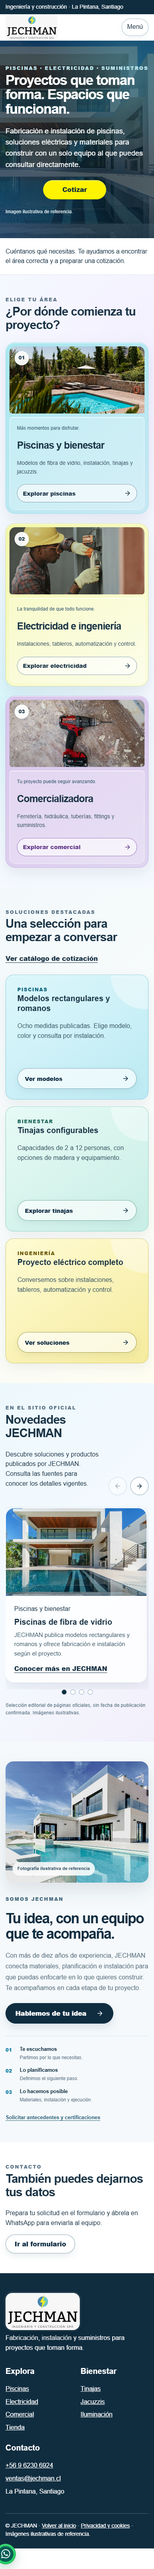
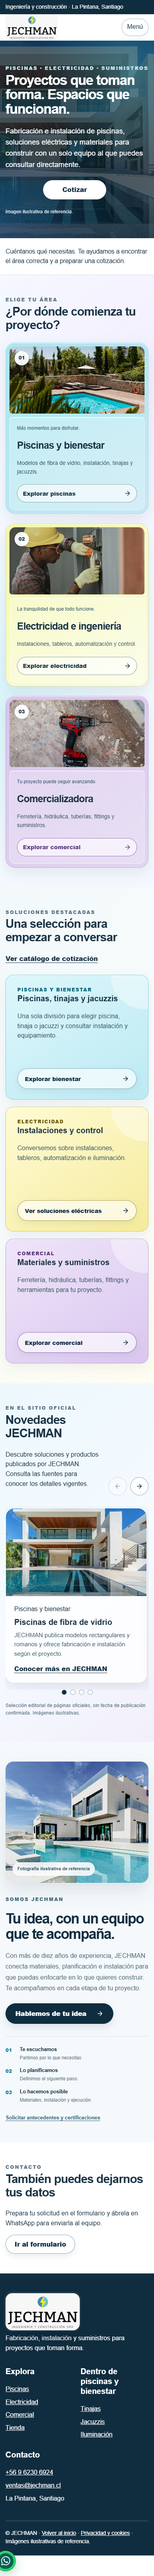
fix: restore Jechman division colors and group wellness with pools

diff --git a/glassindex.html b/glassindex.html
@@ -198,6 +198,25 @@ html{scroll-padding-top:84px}body{overflow-x:clip}.site-header{background:#fffff
 @media(max-width:800px){.site-header .brand-logo{width:152px}}
 @media(max-width:680px){.site-header .brand-logo{width:132px}.footer .brand-logo{width:188px}}
 @media(prefers-reduced-motion:reduce){.footer .brand:hover .brand-logo{transform:none}}
+
+/* One consistent color per division. */
+.view[data-view="home"] .hero .btn,.nav .nav-quote{background:#fff;color:#102d40;border-color:#d3e3e9}
+.nav .nav-quote:hover{background:#eaf5f8}
+#destacados .feature-grid .feature-commercial{background:linear-gradient(145deg,#efe5f9,#dac6ef);border-color:#bda0d9}
+#destacados .feature-commercial .tag{color:#573078}
+#destacados .feature-commercial .feature-pill{border-color:#8d68ae!important}
+.view[data-view="piscinas"] .page-hero,.view[data-view="color"] .page-hero,.view[data-view="tinajas"] .page-hero,.view[data-view="jacuzzis"] .page-hero{background:linear-gradient(135deg,#e8faff,#f5fbfd)}
+.view[data-view="electricidad"] .page-hero{background:linear-gradient(135deg,#fff7cc,#fffdf0)}
+.view[data-view="comercial"] .page-hero,.view[data-view="tienda"] .page-hero{background:linear-gradient(135deg,#f2eafa,#fcf8ff)}
+.view[data-view="piscinas"] .btn:not(.outline),.view[data-view="color"] .btn:not(.outline),.view[data-view="tinajas"] .btn:not(.outline),.view[data-view="jacuzzis"] .btn:not(.outline){background:#b9eef4;color:#09283f;border-color:#76c8d7}
+.view[data-view="electricidad"] .btn:not(.outline){background:#f4d54a;color:#302500;border-color:#bca225}
+.view[data-view="comercial"] .btn:not(.outline),.view[data-view="tienda"] .btn:not(.outline){background:#7958a6;color:#fff;border-color:#7958a6}
+.view[data-view="electricidad"] .tag,.view[data-view="electricidad"] .eyebrow{color:#765c00}
+.view[data-view="comercial"] .tag,.view[data-view="comercial"] .eyebrow,.view[data-view="tienda"] .eyebrow{color:#673b8a}
+.view[data-view="piscinas"] .tag,.view[data-view="tinajas"] .tag,.view[data-view="jacuzzis"] .tag{color:#075f78}
+.nav a[data-route="electricidad"][aria-current="page"]{background:#fff3b7;color:#624c00}
+.nav a[data-route="comercial"][aria-current="page"],.nav a[data-route="tienda"][aria-current="page"]{background:#eee3fa;color:#573078}
+.nav a[data-route="piscinas"][aria-current="page"]{background:#d8f4fa;color:#075f78}
 </style>
 </head>
 <body>
@@ -209,7 +228,7 @@ html{scroll-padding-top:84px}body{overflow-x:clip}.site-header{background:#fffff
     <section class="hero"><img src="assets/hero.webp" alt="Piscina y exterior contemporáneo, imagen ilustrativa"><div class="wrap"><div class="hero-copy"><span class="eyebrow" style="color:#bce7ef">PISCINAS · ELECTRICIDAD · SUMINISTROS</span><h1>Proyectos que toman forma. Espacios que funcionan.</h1><p>Fabricación e instalación de piscinas, soluciones eléctricas y materiales para construir con un solo equipo al que puedes consultar directamente.</p><div class="hero-action"><a class="btn" data-wa="Hola JECHMAN, quisiera cotizar un proyecto y conversar sobre las opciones." href="#">Cotizar</a></div><div class="photo-note">Imagen ilustrativa de referencia.</div></div></div></section>
     <div class="intro-line"><div class="wrap">Cuéntanos qué necesitas. Te ayudamos a encontrar el área correcta y a preparar una cotización.</div></div>
     <section class="section area-section" id="areas"><div class="wrap"><div class="section-head"><div><span class="eyebrow">ELIGE TU ÁREA</span><h2>¿Por dónde comienza tu proyecto?</h2></div></div><div class="area-grid"><a class="area-card pool" href="#/piscinas"><div class="area-photo"><img src="assets/area-piscinas.webp" alt="Piscina residencial, imagen ilustrativa"><span class="area-number" aria-hidden="true">01</span></div><div class="body"><span class="area-kicker">Más momentos para disfrutar.</span><h3>Piscinas y bienestar</h3><p>Modelos de fibra de vidrio, instalación, tinajas y jacuzzis.</p><span class="link">Explorar piscinas <span class="icon-arrow"><svg viewBox="0 0 24 24" width="18" height="18" fill="none" stroke="currentColor" stroke-width="2" stroke-linecap="round" stroke-linejoin="round" aria-hidden="true" focusable="false"><path d="M5 12h14m-7-7 7 7-7 7"/></svg></span></span></div></a><a class="area-card electric" href="#/electricidad"><div class="area-photo"><img src="assets/area-electricidad.webp" alt="Trabajo eléctrico, imagen ilustrativa"><span class="area-number" aria-hidden="true">02</span></div><div class="body"><span class="area-kicker">La tranquilidad de que todo funcione.</span><h3>Electricidad e ingeniería</h3><p>Instalaciones, tableros, automatización y control.</p><span class="link">Explorar electricidad <span class="icon-arrow"><svg viewBox="0 0 24 24" width="18" height="18" fill="none" stroke="currentColor" stroke-width="2" stroke-linecap="round" stroke-linejoin="round" aria-hidden="true" focusable="false"><path d="M5 12h14m-7-7 7 7-7 7"/></svg></span></span></div></a><a class="area-card commercial" href="#/comercial"><div class="area-photo"><img src="assets/area-comercial.webp" alt="Herramientas y materiales, imagen ilustrativa"><span class="area-number" aria-hidden="true">03</span></div><div class="body"><span class="area-kicker">Tu proyecto puede seguir avanzando.</span><h3>Comercializadora</h3><p>Ferretería, hidráulica, tuberías, fittings y suministros.</p><span class="link">Explorar comercial <span class="icon-arrow"><svg viewBox="0 0 24 24" width="18" height="18" fill="none" stroke="currentColor" stroke-width="2" stroke-linecap="round" stroke-linejoin="round" aria-hidden="true" focusable="false"><path d="M5 12h14m-7-7 7 7-7 7"/></svg></span></span></div></a></div></div></section>
-    <section class="section band" id="destacados"><div class="wrap"><div class="section-head"><div><span class="eyebrow">SOLUCIONES DESTACADAS</span><h2>Una selección para empezar a conversar</h2></div><a class="text-link" href="#/tienda">Ver catálogo de cotización</a></div><div class="feature-grid"><article class="card feature-pool"><span class="tag">PISCINAS</span><h3>Modelos rectangulares y romanos</h3><p>Ocho medidas publicadas. Elige modelo, color y consulta por instalación.</p><div class="actions"><a class="btn small feature-pill" href="#/piscinas">Ver modelos <span class="icon-arrow"><svg viewBox="0 0 24 24" width="18" height="18" fill="none" stroke="currentColor" stroke-width="2" stroke-linecap="round" stroke-linejoin="round" aria-hidden="true" focusable="false"><path d="M5 12h14m-7-7 7 7-7 7"/></svg></span></a></div></article><article class="card feature-wellness"><span class="tag">BIENESTAR</span><h3>Tinajas configurables</h3><p>Capacidades de 2 a 12 personas, con opciones de madera y equipamiento.</p><div class="actions"><a class="btn small feature-pill" href="#/tinajas">Explorar tinajas <span class="icon-arrow"><svg viewBox="0 0 24 24" width="18" height="18" fill="none" stroke="currentColor" stroke-width="2" stroke-linecap="round" stroke-linejoin="round" aria-hidden="true" focusable="false"><path d="M5 12h14m-7-7 7 7-7 7"/></svg></span></a></div></article><article class="card feature-electric"><span class="tag">INGENIERÍA</span><h3>Proyecto eléctrico completo</h3><p>Conversemos sobre instalaciones, tableros, automatización y control.</p><div class="actions"><a class="btn small feature-pill" href="#/electricidad">Ver soluciones <span class="icon-arrow"><svg viewBox="0 0 24 24" width="18" height="18" fill="none" stroke="currentColor" stroke-width="2" stroke-linecap="round" stroke-linejoin="round" aria-hidden="true" focusable="false"><path d="M5 12h14m-7-7 7 7-7 7"/></svg></span></a></div></article></div></div></section>
+    <section class="section band" id="destacados"><div class="wrap"><div class="section-head"><div><span class="eyebrow">SOLUCIONES DESTACADAS</span><h2>Una selección para empezar a conversar</h2></div><a class="text-link" href="#/tienda">Ver catálogo de cotización</a></div><div class="feature-grid"><article class="card feature-pool"><span class="tag">PISCINAS Y BIENESTAR</span><h3>Piscinas, tinajas y jacuzzis</h3><p>Una sola división para elegir piscina, tinaja o jacuzzi y consultar instalación y equipamiento.</p><div class="actions"><a class="btn small feature-pill" href="#/piscinas">Explorar bienestar <span class="icon-arrow"><svg viewBox="0 0 24 24" width="18" height="18" fill="none" stroke="currentColor" stroke-width="2" stroke-linecap="round" stroke-linejoin="round" aria-hidden="true" focusable="false"><path d="M5 12h14m-7-7 7 7-7 7"/></svg></span></a></div></article><article class="card feature-electric"><span class="tag">ELECTRICIDAD</span><h3>Instalaciones y control</h3><p>Conversemos sobre instalaciones, tableros, automatización e iluminación.</p><div class="actions"><a class="btn small feature-pill" href="#/electricidad">Ver soluciones eléctricas <span class="icon-arrow"><svg viewBox="0 0 24 24" width="18" height="18" fill="none" stroke="currentColor" stroke-width="2" stroke-linecap="round" stroke-linejoin="round" aria-hidden="true" focusable="false"><path d="M5 12h14m-7-7 7 7-7 7"/></svg></span></a></div></article><article class="card feature-commercial"><span class="tag">COMERCIAL</span><h3>Materiales y suministros</h3><p>Ferretería, hidráulica, tuberías, fittings y herramientas para tu proyecto.</p><div class="actions"><a class="btn small feature-pill" href="#/comercial">Explorar comercial <span class="icon-arrow"><svg viewBox="0 0 24 24" width="18" height="18" fill="none" stroke="currentColor" stroke-width="2" stroke-linecap="round" stroke-linejoin="round" aria-hidden="true" focusable="false"><path d="M5 12h14m-7-7 7 7-7 7"/></svg></span></a></div></article></div></div></section>
     <section class="section news-section" id="novedades" aria-labelledby="news-title"><div class="wrap"><div class="section-head"><div><span class="eyebrow">EN EL SITIO OFICIAL</span><h2 id="news-title">Novedades JECHMAN</h2><p>Descubre soluciones y productos publicados por JECHMAN. Consulta las fuentes para conocer los detalles vigentes.</p></div><div class="news-controls"><button type="button" id="news-prev" aria-label="Novedad anterior"><svg viewBox="0 0 24 24" width="18" height="18" fill="none" stroke="currentColor" stroke-width="2" stroke-linecap="round" stroke-linejoin="round" aria-hidden="true" focusable="false"><path d="M5 12h14m-7-7 7 7-7 7"/></svg></button><button type="button" id="news-next" aria-label="Novedad siguiente"><svg viewBox="0 0 24 24" width="18" height="18" fill="none" stroke="currentColor" stroke-width="2" stroke-linecap="round" stroke-linejoin="round" aria-hidden="true" focusable="false"><path d="M5 12h14m-7-7 7 7-7 7"/></svg></button></div></div><div class="news-track" id="news-track" tabindex="0" aria-label="Novedades JECHMAN"></div><div class="news-dots" id="news-dots" aria-label="Seleccionar novedad"></div><p class="news-note">Selección editorial de páginas oficiales, sin fecha de publicación confirmada. Imágenes ilustrativas.</p></div></section>
     <section class="section about-section" id="historia"><div class="wrap about-grid"><figure class="about-visual"><img src="assets/about-jechman.jpg" alt="Casa contemporánea junto a una piscina, imagen ilustrativa de referencia" loading="lazy" decoding="async"><figcaption>Fotografía ilustrativa de referencia</figcaption></figure><div class="about-content"><span class="eyebrow">SOMOS JECHMAN</span><h2>Tu idea, con un equipo que te acompaña.</h2><p class="about-copy">Con más de diez años de experiencia, JECHMAN conecta materiales, planificación e instalación para que puedas enfocarte en lo que quieres construir. Te acompañamos en cada etapa de tu proyecto.</p><a class="btn about-cta" data-wa="Hola JECHMAN, quisiera conversar sobre mi idea y recibir orientación para mi proyecto." href="#">Hablemos de tu idea <span class="icon-arrow"><svg viewBox="0 0 24 24" width="18" height="18" fill="none" stroke="currentColor" stroke-width="2" stroke-linecap="round" stroke-linejoin="round" aria-hidden="true" focusable="false"><path d="M5 12h14m-7-7 7 7-7 7"/></svg></span></a><ol class="about-steps"><li><span>01</span><strong>Te escuchamos</strong><p>Partimos por lo que necesitas.</p></li><li><span>02</span><strong>Lo planificamos</strong><p>Definimos el siguiente paso.</p></li><li><span>03</span><strong>Lo hacemos posible</strong><p>Materiales, instalación y ejecución.</p></li></ol><a class="about-cert" data-wa="Hola JECHMAN, quisiera solicitar antecedentes técnicos o certificaciones para mi proyecto." href="#">Solicitar antecedentes y certificaciones</a></div></div></section>
     <section class="section compact"><div class="wrap"><span class="eyebrow">CONTACTO</span><h2>También puedes dejarnos tus datos</h2><p>Prepara tu solicitud en el formulario y ábrela en WhatsApp para enviarla al equipo.</p><a class="btn outline" href="#/contacto">Ir al formulario</a></div></section>
@@ -231,7 +250,7 @@ html{scroll-padding-top:84px}body{overflow-x:clip}.site-header{background:#fffff
   <div class="view" data-view="contacto" hidden><section class="page-hero"><div class="wrap"><div class="breadcrumbs"><a href="#/">Inicio</a> / Contacto</div><span class="eyebrow">CONTACTO</span><h1>Cuéntanos qué necesitas.</h1><p class="lead">Habla directamente por WhatsApp o completa el formulario para preparar tu solicitud.</p></div></section><section class="section"><div class="wrap contact-layout"><div><h2>Hablemos</h2><p><a class="text-link" data-wa="Hola JECHMAN, quisiera hablar con el equipo." href="#">WhatsApp: +56 9 6230 6924</a></p><p><a href="mailto:ventas@jechman.cl">ventas@jechman.cl</a></p><p>Lunes a viernes<br>08:30 a 17:30</p><p>Colo Colo 14405, La Pintana, Santiago.</p></div><form id="contact-form"><div class="form-grid"><label>Nombre *<input name="nombre" required autocomplete="name"></label><label>Teléfono *<input name="telefono" required autocomplete="tel" inputmode="tel"></label><label>Correo *<input name="correo" type="email" required autocomplete="email"></label><label>Área *<select name="area" id="contact-area" required><option value="">Selecciona un área</option><option>Piscinas y bienestar</option><option>Electricidad</option><option>Comercial</option><option>Tienda</option></select></label><label class="full">Mensaje *<textarea name="mensaje" required placeholder="Modelo, medidas, producto o idea de proyecto"></textarea></label></div><p class="muted">Al continuar se abrirá WhatsApp con el texto preparado. Podrás revisarlo y editarlo antes de enviarlo.</p><div class="form-actions"><button class="btn" type="submit">Preparar solicitud en WhatsApp</button><a class="text-link" href="mailto:ventas@jechman.cl">Prefiero enviar un correo</a></div><p id="form-status" role="status"></p></form></div></section></div>
   <div class="view" data-view="legal" hidden><section class="page-hero"><div class="wrap"><div class="breadcrumbs"><a href="#/">Inicio</a> / Privacidad</div><span class="eyebrow">VISTA PREVIA</span><h1>Privacidad, cookies y condiciones</h1></div></section><section class="section"><div class="wrap legal-copy"><p class="notice">Información de esta vista previa. El texto legal definitivo requiere validación de JECHMAN y asesoría jurídica antes de publicarse como política corporativa.</p><h2>Privacidad</h2><p>Este sitio estático no envía el formulario a un servidor propio. El mensaje se prepara en el navegador y se envía solo si eliges hacerlo mediante WhatsApp. En ese caso, la conversación se rige también por las condiciones de ese proveedor. Evita compartir información sensible.</p><h2>Cookies y almacenamiento local</h2><p>Esta vista previa no incorpora analítica ni publicidad. Guarda localmente únicamente tu elección sobre el aviso informativo. Las imágenes se sirven desde el mismo sitio.</p><h2>Cotizaciones</h2><p>Las imágenes son ilustrativas. Modelos, disponibilidad, instalación y condiciones se confirman directamente en una cotización de JECHMAN. Esta página no procesa compras ni pagos.</p><button class="btn outline" type="button" id="cookie-settings">Ver aviso de privacidad</button></div></section></div>
 </main>
-<footer class="footer"><div class="wrap"><div class="footer-grid"><div><a class="brand" href="#/" aria-label="JECHMAN, volver al inicio"><span class="brand-logo"><img src="assets/jechman-logo-official.jpeg" alt="JECHMAN Ingeniería y Construcción SpA" width="1600" height="1600"></span></a><p>Fabricación, instalación y suministros para proyectos que toman forma.</p></div><div><h3>Explora</h3><ul><li><a href="#/piscinas">Piscinas</a></li><li><a href="#/electricidad">Electricidad</a></li><li><a href="#/comercial">Comercial</a></li><li><a href="#/tienda">Tienda</a></li></ul></div><div><h3>Bienestar</h3><ul><li><a href="#/tinajas">Tinajas</a></li><li><a href="#/jacuzzis">Jacuzzis</a></li><li><a href="#/tienda?categoria=Iluminaci%C3%B3n">Iluminación</a></li></ul></div><div><h3>Contacto</h3><ul><li><a data-wa="Hola JECHMAN, quisiera conversar con el equipo." href="#">+56 9 6230 6924</a></li><li><a href="mailto:ventas@jechman.cl">ventas@jechman.cl</a></li><li>La Pintana, Santiago</li></ul></div></div><div class="footer-bottom">© JECHMAN · <a href="#/">Volver al inicio</a> · <a href="#/legal">Privacidad y cookies</a> · Imágenes ilustrativas de referencia.</div></div></footer>
+<footer class="footer"><div class="wrap"><div class="footer-grid"><div><a class="brand" href="#/" aria-label="JECHMAN, volver al inicio"><span class="brand-logo"><img src="assets/jechman-logo-official.jpeg" alt="JECHMAN Ingeniería y Construcción SpA" width="1600" height="1600"></span></a><p>Fabricación, instalación y suministros para proyectos que toman forma.</p></div><div><h3>Explora</h3><ul><li><a href="#/piscinas">Piscinas</a></li><li><a href="#/electricidad">Electricidad</a></li><li><a href="#/comercial">Comercial</a></li><li><a href="#/tienda">Tienda</a></li></ul></div><div><h3>Dentro de piscinas y bienestar</h3><ul><li><a href="#/tinajas">Tinajas</a></li><li><a href="#/jacuzzis">Jacuzzis</a></li><li><a href="#/tienda?categoria=Iluminaci%C3%B3n">Iluminación</a></li></ul></div><div><h3>Contacto</h3><ul><li><a data-wa="Hola JECHMAN, quisiera conversar con el equipo." href="#">+56 9 6230 6924</a></li><li><a href="mailto:ventas@jechman.cl">ventas@jechman.cl</a></li><li>La Pintana, Santiago</li></ul></div></div><div class="footer-bottom">© JECHMAN · <a href="#/">Volver al inicio</a> · <a href="#/legal">Privacidad y cookies</a> · Imágenes ilustrativas de referencia.</div></div></footer>
 <div class="cookie-banner" id="cookie-banner" role="region" aria-label="Aviso de privacidad" hidden><p>Esta vista previa solo guarda localmente tu elección sobre este aviso. <a href="#/legal">Lee la información de privacidad</a>.</p><button type="button" id="cookie-dismiss">Entendido</button></div>
 <button class="float-wa" id="float-wa" type="button" aria-label="Abrir conversación en WhatsApp"><span class="wa-icon"><svg viewBox="0 0 16 16" width="23" height="23" fill="currentColor" aria-hidden="true" focusable="false"><path d="M13.601 2.326A7.85 7.85 0 0 0 7.994 0C3.627 0 .068 3.558.064 7.926c0 1.399.366 2.76 1.057 3.965L0 16l4.204-1.102a7.9 7.9 0 0 0 3.79.965h.004c4.368 0 7.926-3.558 7.93-7.93A7.9 7.9 0 0 0 13.6 2.326zM7.994 14.521a6.6 6.6 0 0 1-3.356-.92l-.24-.144-2.494.654.666-2.433-.156-.251a6.56 6.56 0 0 1-1.007-3.505c0-3.626 2.957-6.584 6.591-6.584a6.56 6.56 0 0 1 4.66 1.931 6.56 6.56 0 0 1 1.928 4.66c-.004 3.639-2.961 6.592-6.592 6.592m3.615-4.934c-.197-.099-1.17-.578-1.353-.646-.182-.065-.315-.099-.445.099-.133.197-.513.646-.627.775-.114.133-.232.148-.43.05-.197-.1-.836-.308-1.592-.985-.59-.525-.985-1.175-1.103-1.372-.114-.198-.011-.304.088-.403.087-.088.197-.232.296-.346.1-.114.133-.198.198-.33.065-.134.034-.248-.015-.347-.05-.099-.445-1.076-.612-1.47-.16-.389-.323-.335-.445-.34-.114-.007-.247-.007-.38-.007a.73.73 0 0 0-.529.247c-.182.198-.691.677-.691 1.654s.71 1.916.81 2.049c.098.133 1.394 2.132 3.383 2.992.47.205.84.326 1.129.418.475.152.904.129 1.246.08.38-.058 1.171-.48 1.338-.943.164-.464.164-.86.114-.943-.049-.084-.182-.133-.38-.232"/></svg></span><span class="wa-label">WhatsApp</span></button>
 <dialog class="dialog" id="product-dialog" aria-labelledby="dialog-title"><div class="dialog-head"><h2 id="dialog-title">Producto</h2><button type="button" class="dialog-close" id="dialog-close" aria-label="Cerrar ficha">×</button></div><div class="dialog-body"><img id="dialog-image" class="dialog-product-image" alt=""><p class="dialog-image-note">Imagen ilustrativa de referencia.</p><p id="dialog-description"></p><p id="dialog-category" class="eyebrow"></p><div class="config-grid"><label>Modelo o medida solicitada<input id="dialog-model" placeholder="Opcional"></label><label>Color solicitado<input id="dialog-color" placeholder="Opcional"></label><label>Opciones adicionales<input id="dialog-options" placeholder="Opcional"></label><label>Despacho<select id="dialog-shipping"><option>Despacho a coordinar</option><option>Consultar retiro</option></select></label></div><div class="actions"><a class="btn" id="dialog-quote" href="#">Cotizar por WhatsApp</a><button type="button" class="btn outline" id="dialog-contact">Usar formulario</button></div></div></dialog>

diff --git a/index.html b/index.html
@@ -198,6 +198,25 @@ html{scroll-padding-top:84px}body{overflow-x:clip}.site-header{background:#fffff
 @media(max-width:800px){.site-header .brand-logo{width:152px}}
 @media(max-width:680px){.site-header .brand-logo{width:132px}.footer .brand-logo{width:188px}}
 @media(prefers-reduced-motion:reduce){.footer .brand:hover .brand-logo{transform:none}}
+
+/* One consistent color per division. */
+.view[data-view="home"] .hero .btn,.nav .nav-quote{background:#fff;color:#102d40;border-color:#d3e3e9}
+.nav .nav-quote:hover{background:#eaf5f8}
+#destacados .feature-grid .feature-commercial{background:linear-gradient(145deg,#efe5f9,#dac6ef);border-color:#bda0d9}
+#destacados .feature-commercial .tag{color:#573078}
+#destacados .feature-commercial .feature-pill{border-color:#8d68ae!important}
+.view[data-view="piscinas"] .page-hero,.view[data-view="color"] .page-hero,.view[data-view="tinajas"] .page-hero,.view[data-view="jacuzzis"] .page-hero{background:linear-gradient(135deg,#e8faff,#f5fbfd)}
+.view[data-view="electricidad"] .page-hero{background:linear-gradient(135deg,#fff7cc,#fffdf0)}
+.view[data-view="comercial"] .page-hero,.view[data-view="tienda"] .page-hero{background:linear-gradient(135deg,#f2eafa,#fcf8ff)}
+.view[data-view="piscinas"] .btn:not(.outline),.view[data-view="color"] .btn:not(.outline),.view[data-view="tinajas"] .btn:not(.outline),.view[data-view="jacuzzis"] .btn:not(.outline){background:#b9eef4;color:#09283f;border-color:#76c8d7}
+.view[data-view="electricidad"] .btn:not(.outline){background:#f4d54a;color:#302500;border-color:#bca225}
+.view[data-view="comercial"] .btn:not(.outline),.view[data-view="tienda"] .btn:not(.outline){background:#7958a6;color:#fff;border-color:#7958a6}
+.view[data-view="electricidad"] .tag,.view[data-view="electricidad"] .eyebrow{color:#765c00}
+.view[data-view="comercial"] .tag,.view[data-view="comercial"] .eyebrow,.view[data-view="tienda"] .eyebrow{color:#673b8a}
+.view[data-view="piscinas"] .tag,.view[data-view="tinajas"] .tag,.view[data-view="jacuzzis"] .tag{color:#075f78}
+.nav a[data-route="electricidad"][aria-current="page"]{background:#fff3b7;color:#624c00}
+.nav a[data-route="comercial"][aria-current="page"],.nav a[data-route="tienda"][aria-current="page"]{background:#eee3fa;color:#573078}
+.nav a[data-route="piscinas"][aria-current="page"]{background:#d8f4fa;color:#075f78}
 </style>
 </head>
 <body>
@@ -209,7 +228,7 @@ html{scroll-padding-top:84px}body{overflow-x:clip}.site-header{background:#fffff
     <section class="hero"><img src="assets/hero.webp" alt="Piscina y exterior contemporáneo, imagen ilustrativa"><div class="wrap"><div class="hero-copy"><span class="eyebrow" style="color:#bce7ef">PISCINAS · ELECTRICIDAD · SUMINISTROS</span><h1>Proyectos que toman forma. Espacios que funcionan.</h1><p>Fabricación e instalación de piscinas, soluciones eléctricas y materiales para construir con un solo equipo al que puedes consultar directamente.</p><div class="hero-action"><a class="btn" data-wa="Hola JECHMAN, quisiera cotizar un proyecto y conversar sobre las opciones." href="#">Cotizar</a></div><div class="photo-note">Imagen ilustrativa de referencia.</div></div></div></section>
     <div class="intro-line"><div class="wrap">Cuéntanos qué necesitas. Te ayudamos a encontrar el área correcta y a preparar una cotización.</div></div>
     <section class="section area-section" id="areas"><div class="wrap"><div class="section-head"><div><span class="eyebrow">ELIGE TU ÁREA</span><h2>¿Por dónde comienza tu proyecto?</h2></div></div><div class="area-grid"><a class="area-card pool" href="#/piscinas"><div class="area-photo"><img src="assets/area-piscinas.webp" alt="Piscina residencial, imagen ilustrativa"><span class="area-number" aria-hidden="true">01</span></div><div class="body"><span class="area-kicker">Más momentos para disfrutar.</span><h3>Piscinas y bienestar</h3><p>Modelos de fibra de vidrio, instalación, tinajas y jacuzzis.</p><span class="link">Explorar piscinas <span class="icon-arrow"><svg viewBox="0 0 24 24" width="18" height="18" fill="none" stroke="currentColor" stroke-width="2" stroke-linecap="round" stroke-linejoin="round" aria-hidden="true" focusable="false"><path d="M5 12h14m-7-7 7 7-7 7"/></svg></span></span></div></a><a class="area-card electric" href="#/electricidad"><div class="area-photo"><img src="assets/area-electricidad.webp" alt="Trabajo eléctrico, imagen ilustrativa"><span class="area-number" aria-hidden="true">02</span></div><div class="body"><span class="area-kicker">La tranquilidad de que todo funcione.</span><h3>Electricidad e ingeniería</h3><p>Instalaciones, tableros, automatización y control.</p><span class="link">Explorar electricidad <span class="icon-arrow"><svg viewBox="0 0 24 24" width="18" height="18" fill="none" stroke="currentColor" stroke-width="2" stroke-linecap="round" stroke-linejoin="round" aria-hidden="true" focusable="false"><path d="M5 12h14m-7-7 7 7-7 7"/></svg></span></span></div></a><a class="area-card commercial" href="#/comercial"><div class="area-photo"><img src="assets/area-comercial.webp" alt="Herramientas y materiales, imagen ilustrativa"><span class="area-number" aria-hidden="true">03</span></div><div class="body"><span class="area-kicker">Tu proyecto puede seguir avanzando.</span><h3>Comercializadora</h3><p>Ferretería, hidráulica, tuberías, fittings y suministros.</p><span class="link">Explorar comercial <span class="icon-arrow"><svg viewBox="0 0 24 24" width="18" height="18" fill="none" stroke="currentColor" stroke-width="2" stroke-linecap="round" stroke-linejoin="round" aria-hidden="true" focusable="false"><path d="M5 12h14m-7-7 7 7-7 7"/></svg></span></span></div></a></div></div></section>
-    <section class="section band" id="destacados"><div class="wrap"><div class="section-head"><div><span class="eyebrow">SOLUCIONES DESTACADAS</span><h2>Una selección para empezar a conversar</h2></div><a class="text-link" href="#/tienda">Ver catálogo de cotización</a></div><div class="feature-grid"><article class="card feature-pool"><span class="tag">PISCINAS</span><h3>Modelos rectangulares y romanos</h3><p>Ocho medidas publicadas. Elige modelo, color y consulta por instalación.</p><div class="actions"><a class="btn small feature-pill" href="#/piscinas">Ver modelos <span class="icon-arrow"><svg viewBox="0 0 24 24" width="18" height="18" fill="none" stroke="currentColor" stroke-width="2" stroke-linecap="round" stroke-linejoin="round" aria-hidden="true" focusable="false"><path d="M5 12h14m-7-7 7 7-7 7"/></svg></span></a></div></article><article class="card feature-wellness"><span class="tag">BIENESTAR</span><h3>Tinajas configurables</h3><p>Capacidades de 2 a 12 personas, con opciones de madera y equipamiento.</p><div class="actions"><a class="btn small feature-pill" href="#/tinajas">Explorar tinajas <span class="icon-arrow"><svg viewBox="0 0 24 24" width="18" height="18" fill="none" stroke="currentColor" stroke-width="2" stroke-linecap="round" stroke-linejoin="round" aria-hidden="true" focusable="false"><path d="M5 12h14m-7-7 7 7-7 7"/></svg></span></a></div></article><article class="card feature-electric"><span class="tag">INGENIERÍA</span><h3>Proyecto eléctrico completo</h3><p>Conversemos sobre instalaciones, tableros, automatización y control.</p><div class="actions"><a class="btn small feature-pill" href="#/electricidad">Ver soluciones <span class="icon-arrow"><svg viewBox="0 0 24 24" width="18" height="18" fill="none" stroke="currentColor" stroke-width="2" stroke-linecap="round" stroke-linejoin="round" aria-hidden="true" focusable="false"><path d="M5 12h14m-7-7 7 7-7 7"/></svg></span></a></div></article></div></div></section>
+    <section class="section band" id="destacados"><div class="wrap"><div class="section-head"><div><span class="eyebrow">SOLUCIONES DESTACADAS</span><h2>Una selección para empezar a conversar</h2></div><a class="text-link" href="#/tienda">Ver catálogo de cotización</a></div><div class="feature-grid"><article class="card feature-pool"><span class="tag">PISCINAS Y BIENESTAR</span><h3>Piscinas, tinajas y jacuzzis</h3><p>Una sola división para elegir piscina, tinaja o jacuzzi y consultar instalación y equipamiento.</p><div class="actions"><a class="btn small feature-pill" href="#/piscinas">Explorar bienestar <span class="icon-arrow"><svg viewBox="0 0 24 24" width="18" height="18" fill="none" stroke="currentColor" stroke-width="2" stroke-linecap="round" stroke-linejoin="round" aria-hidden="true" focusable="false"><path d="M5 12h14m-7-7 7 7-7 7"/></svg></span></a></div></article><article class="card feature-electric"><span class="tag">ELECTRICIDAD</span><h3>Instalaciones y control</h3><p>Conversemos sobre instalaciones, tableros, automatización e iluminación.</p><div class="actions"><a class="btn small feature-pill" href="#/electricidad">Ver soluciones eléctricas <span class="icon-arrow"><svg viewBox="0 0 24 24" width="18" height="18" fill="none" stroke="currentColor" stroke-width="2" stroke-linecap="round" stroke-linejoin="round" aria-hidden="true" focusable="false"><path d="M5 12h14m-7-7 7 7-7 7"/></svg></span></a></div></article><article class="card feature-commercial"><span class="tag">COMERCIAL</span><h3>Materiales y suministros</h3><p>Ferretería, hidráulica, tuberías, fittings y herramientas para tu proyecto.</p><div class="actions"><a class="btn small feature-pill" href="#/comercial">Explorar comercial <span class="icon-arrow"><svg viewBox="0 0 24 24" width="18" height="18" fill="none" stroke="currentColor" stroke-width="2" stroke-linecap="round" stroke-linejoin="round" aria-hidden="true" focusable="false"><path d="M5 12h14m-7-7 7 7-7 7"/></svg></span></a></div></article></div></div></section>
     <section class="section news-section" id="novedades" aria-labelledby="news-title"><div class="wrap"><div class="section-head"><div><span class="eyebrow">EN EL SITIO OFICIAL</span><h2 id="news-title">Novedades JECHMAN</h2><p>Descubre soluciones y productos publicados por JECHMAN. Consulta las fuentes para conocer los detalles vigentes.</p></div><div class="news-controls"><button type="button" id="news-prev" aria-label="Novedad anterior"><svg viewBox="0 0 24 24" width="18" height="18" fill="none" stroke="currentColor" stroke-width="2" stroke-linecap="round" stroke-linejoin="round" aria-hidden="true" focusable="false"><path d="M5 12h14m-7-7 7 7-7 7"/></svg></button><button type="button" id="news-next" aria-label="Novedad siguiente"><svg viewBox="0 0 24 24" width="18" height="18" fill="none" stroke="currentColor" stroke-width="2" stroke-linecap="round" stroke-linejoin="round" aria-hidden="true" focusable="false"><path d="M5 12h14m-7-7 7 7-7 7"/></svg></button></div></div><div class="news-track" id="news-track" tabindex="0" aria-label="Novedades JECHMAN"></div><div class="news-dots" id="news-dots" aria-label="Seleccionar novedad"></div><p class="news-note">Selección editorial de páginas oficiales, sin fecha de publicación confirmada. Imágenes ilustrativas.</p></div></section>
     <section class="section about-section" id="historia"><div class="wrap about-grid"><figure class="about-visual"><img src="assets/about-jechman.jpg" alt="Casa contemporánea junto a una piscina, imagen ilustrativa de referencia" loading="lazy" decoding="async"><figcaption>Fotografía ilustrativa de referencia</figcaption></figure><div class="about-content"><span class="eyebrow">SOMOS JECHMAN</span><h2>Tu idea, con un equipo que te acompaña.</h2><p class="about-copy">Con más de diez años de experiencia, JECHMAN conecta materiales, planificación e instalación para que puedas enfocarte en lo que quieres construir. Te acompañamos en cada etapa de tu proyecto.</p><a class="btn about-cta" data-wa="Hola JECHMAN, quisiera conversar sobre mi idea y recibir orientación para mi proyecto." href="#">Hablemos de tu idea <span class="icon-arrow"><svg viewBox="0 0 24 24" width="18" height="18" fill="none" stroke="currentColor" stroke-width="2" stroke-linecap="round" stroke-linejoin="round" aria-hidden="true" focusable="false"><path d="M5 12h14m-7-7 7 7-7 7"/></svg></span></a><ol class="about-steps"><li><span>01</span><strong>Te escuchamos</strong><p>Partimos por lo que necesitas.</p></li><li><span>02</span><strong>Lo planificamos</strong><p>Definimos el siguiente paso.</p></li><li><span>03</span><strong>Lo hacemos posible</strong><p>Materiales, instalación y ejecución.</p></li></ol><a class="about-cert" data-wa="Hola JECHMAN, quisiera solicitar antecedentes técnicos o certificaciones para mi proyecto." href="#">Solicitar antecedentes y certificaciones</a></div></div></section>
     <section class="section compact"><div class="wrap"><span class="eyebrow">CONTACTO</span><h2>También puedes dejarnos tus datos</h2><p>Prepara tu solicitud en el formulario y ábrela en WhatsApp para enviarla al equipo.</p><a class="btn outline" href="#/contacto">Ir al formulario</a></div></section>
@@ -231,7 +250,7 @@ html{scroll-padding-top:84px}body{overflow-x:clip}.site-header{background:#fffff
   <div class="view" data-view="contacto" hidden><section class="page-hero"><div class="wrap"><div class="breadcrumbs"><a href="#/">Inicio</a> / Contacto</div><span class="eyebrow">CONTACTO</span><h1>Cuéntanos qué necesitas.</h1><p class="lead">Habla directamente por WhatsApp o completa el formulario para preparar tu solicitud.</p></div></section><section class="section"><div class="wrap contact-layout"><div><h2>Hablemos</h2><p><a class="text-link" data-wa="Hola JECHMAN, quisiera hablar con el equipo." href="#">WhatsApp: +56 9 6230 6924</a></p><p><a href="mailto:ventas@jechman.cl">ventas@jechman.cl</a></p><p>Lunes a viernes<br>08:30 a 17:30</p><p>Colo Colo 14405, La Pintana, Santiago.</p></div><form id="contact-form"><div class="form-grid"><label>Nombre *<input name="nombre" required autocomplete="name"></label><label>Teléfono *<input name="telefono" required autocomplete="tel" inputmode="tel"></label><label>Correo *<input name="correo" type="email" required autocomplete="email"></label><label>Área *<select name="area" id="contact-area" required><option value="">Selecciona un área</option><option>Piscinas y bienestar</option><option>Electricidad</option><option>Comercial</option><option>Tienda</option></select></label><label class="full">Mensaje *<textarea name="mensaje" required placeholder="Modelo, medidas, producto o idea de proyecto"></textarea></label></div><p class="muted">Al continuar se abrirá WhatsApp con el texto preparado. Podrás revisarlo y editarlo antes de enviarlo.</p><div class="form-actions"><button class="btn" type="submit">Preparar solicitud en WhatsApp</button><a class="text-link" href="mailto:ventas@jechman.cl">Prefiero enviar un correo</a></div><p id="form-status" role="status"></p></form></div></section></div>
   <div class="view" data-view="legal" hidden><section class="page-hero"><div class="wrap"><div class="breadcrumbs"><a href="#/">Inicio</a> / Privacidad</div><span class="eyebrow">VISTA PREVIA</span><h1>Privacidad, cookies y condiciones</h1></div></section><section class="section"><div class="wrap legal-copy"><p class="notice">Información de esta vista previa. El texto legal definitivo requiere validación de JECHMAN y asesoría jurídica antes de publicarse como política corporativa.</p><h2>Privacidad</h2><p>Este sitio estático no envía el formulario a un servidor propio. El mensaje se prepara en el navegador y se envía solo si eliges hacerlo mediante WhatsApp. En ese caso, la conversación se rige también por las condiciones de ese proveedor. Evita compartir información sensible.</p><h2>Cookies y almacenamiento local</h2><p>Esta vista previa no incorpora analítica ni publicidad. Guarda localmente únicamente tu elección sobre el aviso informativo. Las imágenes se sirven desde el mismo sitio.</p><h2>Cotizaciones</h2><p>Las imágenes son ilustrativas. Modelos, disponibilidad, instalación y condiciones se confirman directamente en una cotización de JECHMAN. Esta página no procesa compras ni pagos.</p><button class="btn outline" type="button" id="cookie-settings">Ver aviso de privacidad</button></div></section></div>
 </main>
-<footer class="footer"><div class="wrap"><div class="footer-grid"><div><a class="brand" href="#/" aria-label="JECHMAN, volver al inicio"><span class="brand-logo"><img src="assets/jechman-logo-official.jpeg" alt="JECHMAN Ingeniería y Construcción SpA" width="1600" height="1600"></span></a><p>Fabricación, instalación y suministros para proyectos que toman forma.</p></div><div><h3>Explora</h3><ul><li><a href="#/piscinas">Piscinas</a></li><li><a href="#/electricidad">Electricidad</a></li><li><a href="#/comercial">Comercial</a></li><li><a href="#/tienda">Tienda</a></li></ul></div><div><h3>Bienestar</h3><ul><li><a href="#/tinajas">Tinajas</a></li><li><a href="#/jacuzzis">Jacuzzis</a></li><li><a href="#/tienda?categoria=Iluminaci%C3%B3n">Iluminación</a></li></ul></div><div><h3>Contacto</h3><ul><li><a data-wa="Hola JECHMAN, quisiera conversar con el equipo." href="#">+56 9 6230 6924</a></li><li><a href="mailto:ventas@jechman.cl">ventas@jechman.cl</a></li><li>La Pintana, Santiago</li></ul></div></div><div class="footer-bottom">© JECHMAN · <a href="#/">Volver al inicio</a> · <a href="#/legal">Privacidad y cookies</a> · Imágenes ilustrativas de referencia.</div></div></footer>
+<footer class="footer"><div class="wrap"><div class="footer-grid"><div><a class="brand" href="#/" aria-label="JECHMAN, volver al inicio"><span class="brand-logo"><img src="assets/jechman-logo-official.jpeg" alt="JECHMAN Ingeniería y Construcción SpA" width="1600" height="1600"></span></a><p>Fabricación, instalación y suministros para proyectos que toman forma.</p></div><div><h3>Explora</h3><ul><li><a href="#/piscinas">Piscinas</a></li><li><a href="#/electricidad">Electricidad</a></li><li><a href="#/comercial">Comercial</a></li><li><a href="#/tienda">Tienda</a></li></ul></div><div><h3>Dentro de piscinas y bienestar</h3><ul><li><a href="#/tinajas">Tinajas</a></li><li><a href="#/jacuzzis">Jacuzzis</a></li><li><a href="#/tienda?categoria=Iluminaci%C3%B3n">Iluminación</a></li></ul></div><div><h3>Contacto</h3><ul><li><a data-wa="Hola JECHMAN, quisiera conversar con el equipo." href="#">+56 9 6230 6924</a></li><li><a href="mailto:ventas@jechman.cl">ventas@jechman.cl</a></li><li>La Pintana, Santiago</li></ul></div></div><div class="footer-bottom">© JECHMAN · <a href="#/">Volver al inicio</a> · <a href="#/legal">Privacidad y cookies</a> · Imágenes ilustrativas de referencia.</div></div></footer>
 <div class="cookie-banner" id="cookie-banner" role="region" aria-label="Aviso de privacidad" hidden><p>Esta vista previa solo guarda localmente tu elección sobre este aviso. <a href="#/legal">Lee la información de privacidad</a>.</p><button type="button" id="cookie-dismiss">Entendido</button></div>
 <button class="float-wa" id="float-wa" type="button" aria-label="Abrir conversación en WhatsApp"><span class="wa-icon"><svg viewBox="0 0 16 16" width="23" height="23" fill="currentColor" aria-hidden="true" focusable="false"><path d="M13.601 2.326A7.85 7.85 0 0 0 7.994 0C3.627 0 .068 3.558.064 7.926c0 1.399.366 2.76 1.057 3.965L0 16l4.204-1.102a7.9 7.9 0 0 0 3.79.965h.004c4.368 0 7.926-3.558 7.93-7.93A7.9 7.9 0 0 0 13.6 2.326zM7.994 14.521a6.6 6.6 0 0 1-3.356-.92l-.24-.144-2.494.654.666-2.433-.156-.251a6.56 6.56 0 0 1-1.007-3.505c0-3.626 2.957-6.584 6.591-6.584a6.56 6.56 0 0 1 4.66 1.931 6.56 6.56 0 0 1 1.928 4.66c-.004 3.639-2.961 6.592-6.592 6.592m3.615-4.934c-.197-.099-1.17-.578-1.353-.646-.182-.065-.315-.099-.445.099-.133.197-.513.646-.627.775-.114.133-.232.148-.43.05-.197-.1-.836-.308-1.592-.985-.59-.525-.985-1.175-1.103-1.372-.114-.198-.011-.304.088-.403.087-.088.197-.232.296-.346.1-.114.133-.198.198-.33.065-.134.034-.248-.015-.347-.05-.099-.445-1.076-.612-1.47-.16-.389-.323-.335-.445-.34-.114-.007-.247-.007-.38-.007a.73.73 0 0 0-.529.247c-.182.198-.691.677-.691 1.654s.71 1.916.81 2.049c.098.133 1.394 2.132 3.383 2.992.47.205.84.326 1.129.418.475.152.904.129 1.246.08.38-.058 1.171-.48 1.338-.943.164-.464.164-.86.114-.943-.049-.084-.182-.133-.38-.232"/></svg></span><span class="wa-label">WhatsApp</span></button>
 <dialog class="dialog" id="product-dialog" aria-labelledby="dialog-title"><div class="dialog-head"><h2 id="dialog-title">Producto</h2><button type="button" class="dialog-close" id="dialog-close" aria-label="Cerrar ficha">×</button></div><div class="dialog-body"><img id="dialog-image" class="dialog-product-image" alt=""><p class="dialog-image-note">Imagen ilustrativa de referencia.</p><p id="dialog-description"></p><p id="dialog-category" class="eyebrow"></p><div class="config-grid"><label>Modelo o medida solicitada<input id="dialog-model" placeholder="Opcional"></label><label>Color solicitado<input id="dialog-color" placeholder="Opcional"></label><label>Opciones adicionales<input id="dialog-options" placeholder="Opcional"></label><label>Despacho<select id="dialog-shipping"><option>Despacho a coordinar</option><option>Consultar retiro</option></select></label></div><div class="actions"><a class="btn" id="dialog-quote" href="#">Cotizar por WhatsApp</a><button type="button" class="btn outline" id="dialog-contact">Usar formulario</button></div></div></dialog>

diff --git a/docs/validation.md b/docs/validation.md
@@ -6,7 +6,7 @@ Capturas del 14 de octubre de 2026:
 - [Inicio, móvil](preview-mobile.png)
 - [Piscinas, móvil](preview-piscinas-mobile.png)
 
-Se comprobó en Microsoft Edge a 320, 375, 390, 430, 768, 1024 y 1440 px: cero desbordamientos horizontales, cero imágenes rotas en Inicio y cero errores de consola. Se recorrieron las vistas Piscinas, Tinajas, Jacuzzis, Electricidad, Comercial, Tienda, Contacto y Privacidad. La búsqueda, estado vacío, filtros de Iluminación y Tinajas, ficha de producto, mensaje de WhatsApp, calculadora orientativa y controles del carrusel funcionaron.
+Se comprobó en Microsoft Edge a 320, 375, 390, 430, 768, 1024 y 1440 px: cero desbordamientos horizontales, cero imágenes rotas en Inicio y cero errores de consola. Se recorrieron las vistas Piscinas, Tinajas, Jacuzzis, Electricidad, Comercial, Tienda, Contacto y Privacidad. La búsqueda, estado vacío, filtros de Iluminación y Tinajas, ficha de producto, mensaje de WhatsApp, calculadora orientativa y controles del carrusel funcionaron. También se verificó la carga bajo `/Jechman-page-with-design/` y la asignación de colores: celeste para Piscinas y bienestar, amarillo para Electricidad y morado para Comercial.
 
 Una revisión automática de accesibilidad WCAG 2.1 A/AA con axe-core no detectó infracciones en Inicio y las ocho vistas internas. La preferencia de movimiento reducido desactiva las animaciones adicionales.
 

diff --git a/README.md b/README.md
@@ -28,4 +28,4 @@ Las cuatro fichas de `news.json` remiten a páginas del sitio oficial: [piscinas
 
 ## Publicación
 
-El PR propone cambios a `main`, pero no los publica. Para mostrarlos en la URL de GitHub Pages indicada, revisa el PR y sus capturas, apruébalo y fusiona la rama cuando corresponda; después verifica que Pages esté configurado para servir `main` y espera a que complete la actualización. El sitio oficial `www.jechman.cl` es únicamente una fuente de consulta.
+GitHub Pages sirve la raíz de `main` en `https://sandylazo1.github.io/Jechman-page-with-design/`. Los cambios de esta rama se muestran allí cuando se fusionan a `main` y termina la compilación de Pages. El sitio oficial `www.jechman.cl` es únicamente una fuente de consulta.
